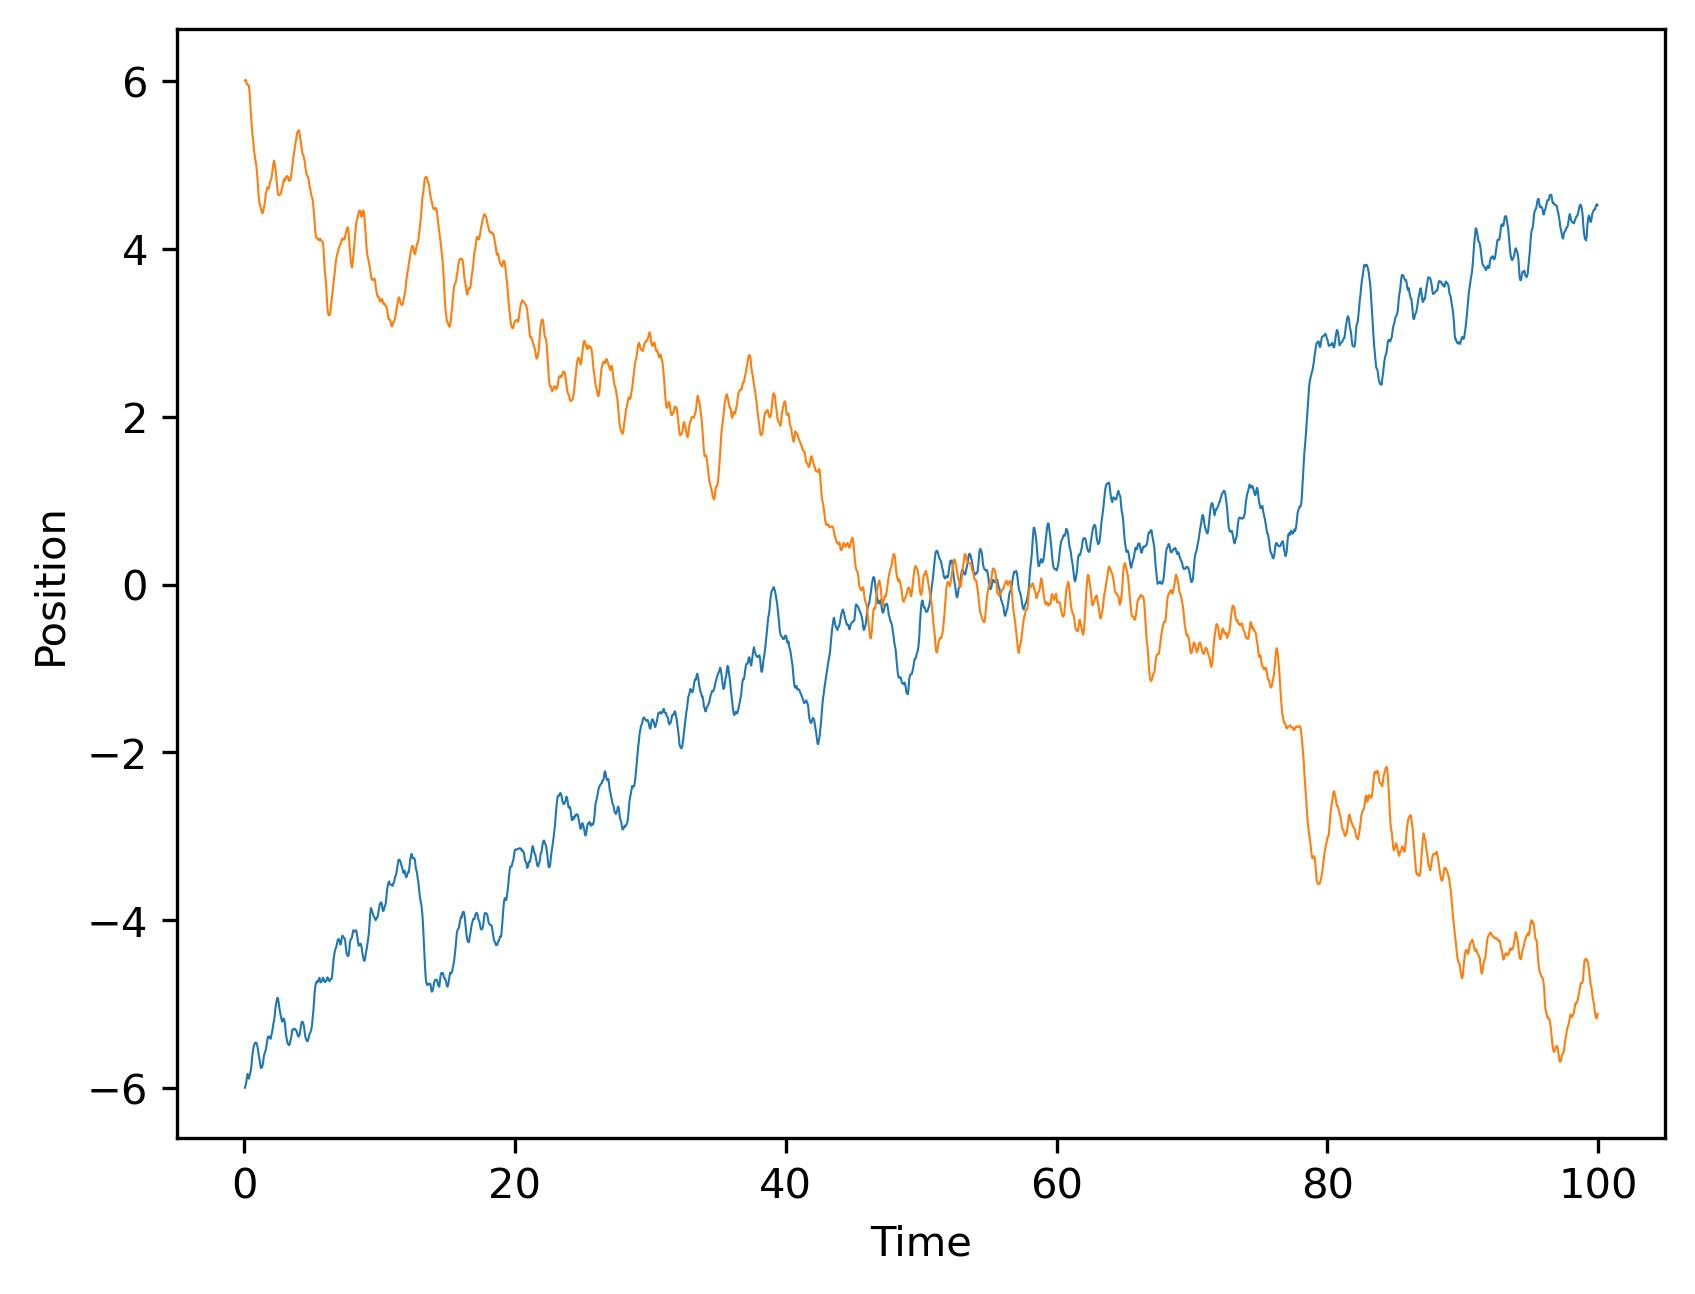
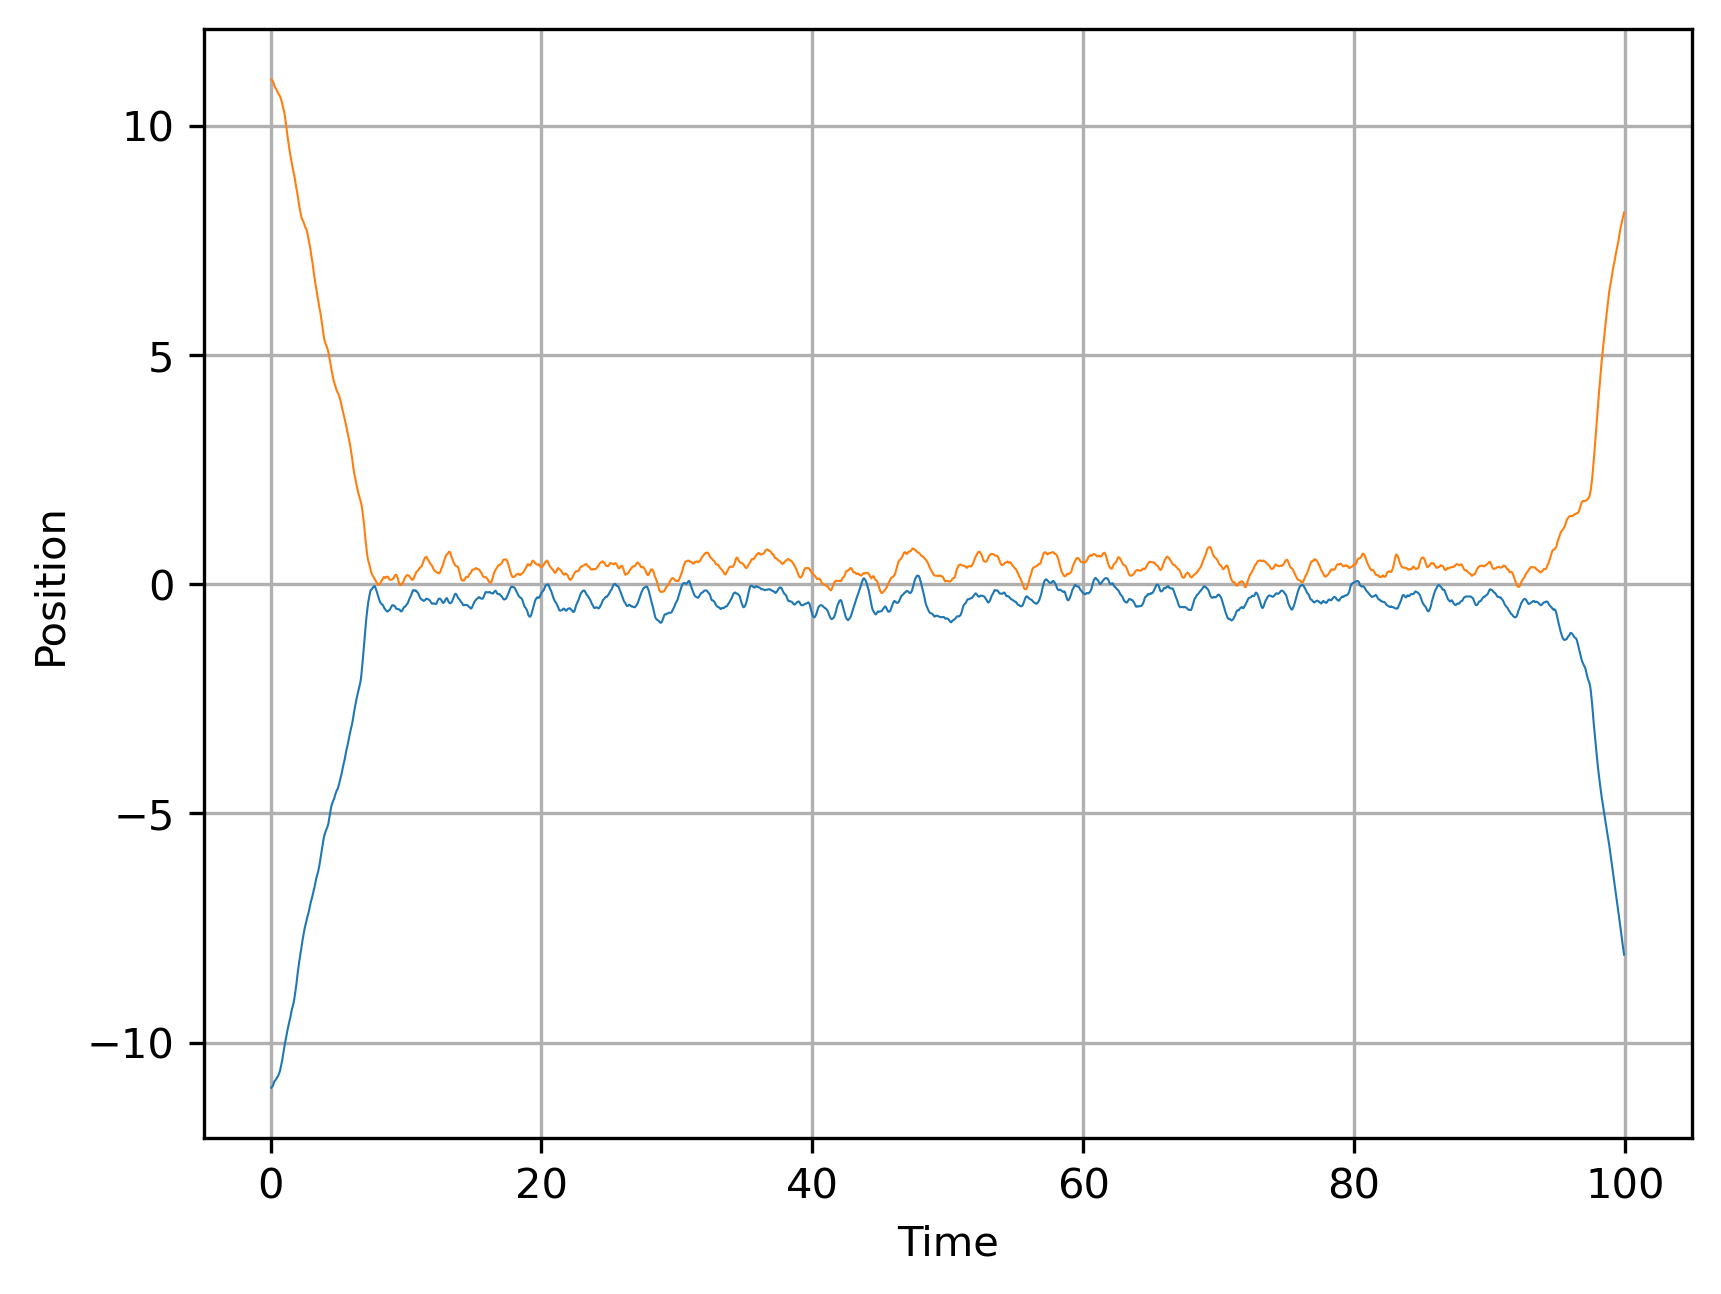
Linear protocol implemented

diff --git a/code/coupled.cpp b/code/coupled.cpp
@@ -3,14 +3,20 @@
 int main(int argc, char** argv){
     double t_end=std::stod(argv[3]), dt=std::stod(argv[2]);
     int t_imp=5;
-    double k=4, f=1-exp(-dt*6), T=1;
-    double c_x0=-5, c_x1=5;
+    double k=4, f=1-exp(-dt*4.01), T=1./4;
+    double x0=-11, x1=11;
+    double c_x0=-10, c_x1=10;
 
     bool bonded=false;
-    double thres_bond=0.8, thres_unbond=2, dist, F;
+    double thres_bond=4, thres_unbond=4, dist, F;
+
+    double interval = t_end/16;
+    double interval2 = t_end-interval;
+    double sep = 2;
+
 
     // particle(double Ri, double xi, double c_xi, double yi, double c_yi, double vxi, double vyi, double Fxi, double Fyi)
-    std::vector<particle> bs{particle(3, -6, c_x0, 0, 0, 0, 0, 0, 0), particle(3, 6, c_x1, 0, 0, 0, 0, 0, 0)};
+    std::vector<particle> bs{particle(3, x0, c_x0, 0, 0, 0, 0, 0, 0), particle(3, x1, c_x1, 0, 0, 0, 0, 0, 0)};
     double SEED=std::stoi(argv[1]);
     gsl_rng * r = gsl_rng_alloc(gsl_rng_mt19937);
     gsl_rng_set(r,SEED);
@@ -39,8 +45,15 @@ int main(int argc, char** argv){
         osc.update_x(bs);
         osc.update_v2(bs);
 
-        bs[0].c_x = c_x0 + t*0.1;
-        bs[1].c_x = c_x1 + -t*0.1;
+        //Protocols
+        if(t <= interval){
+            bs[0].c_x = c_x0 - t*(c_x0+sep/2)/interval;
+            bs[1].c_x = c_x1 - t*(c_x1-sep/2)/interval;
+        }
+        else if(t > interval2){
+            bs[0].c_x = -sep/2 + (t-interval2)*(c_x0+sep/2)/interval;
+            bs[1].c_x = sep/2 + (t-interval2)*(c_x1-sep/2)/interval;
+        }
     }
     file.close();
     gsl_rng_free(r);

diff --git a/code/trajectories.py b/code/trajectories.py
@@ -8,6 +8,7 @@ import matplotlib.pyplot as plt
 data = pd.read_csv('results/coupled.dat', delimiter='\t')
 print(data)
 fig,ax = plt.subplots()
+ax.grid()
 # ax.set_title(r'Trajectories')
 # ax.set_xlabel('Time')
 # ax.set_ylabel('Position')
